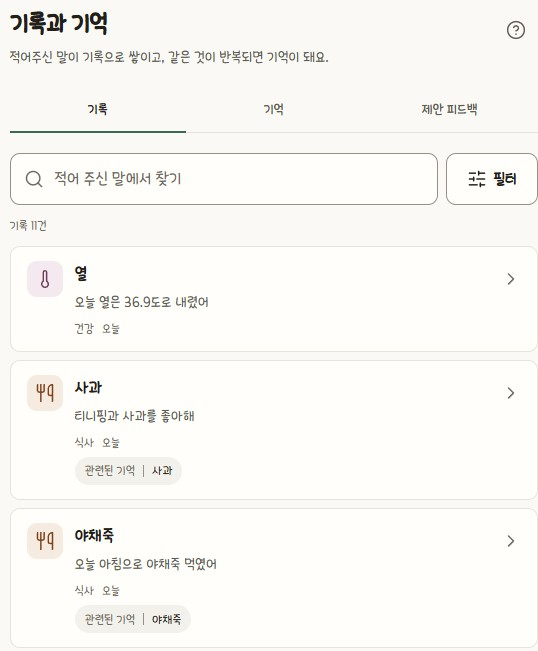
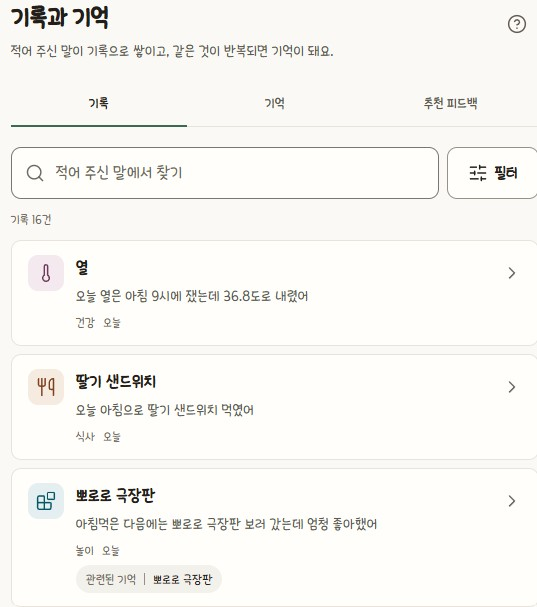
feat: 내용추가

diff --git a/index.html b/index.html
@@ -156,8 +156,7 @@
     <section class="slide" data-section="정리">
       <span class="tag t-red">정리 · 건강</span>
       <h2>병원 가기 전, 증상이 한 번에</h2>
-      <div class="bubble">병원에 가려고 하는데 최근 증상 정리해줘</div>
-      <figure class="shot"><img src="assets/health.jpg" alt="날짜순 증상, 먹인 약, 최근 식사, 알레르기와 만성질환이 정리된 화면" width="544" height="367"><span class="zoom">탭하면 크게 보여요</span></figure>
+      <figure class="shot"><img src="assets/health.jpg" alt="'병원에 가려고 하는데 최근 증상 정리해줘' 요청에 날짜순 구토·체온·해열 시럽·식사 기록과 알레르기(견과류), 만성질환(천식)을 정리한 화면" width="519" height="507"><span class="zoom">탭하면 크게 보여요</span></figure>
       <p class="cap">증상 · 먹인 약 · 식사 · 알레르기를 날짜순으로</p>
     </section>
 
@@ -165,11 +164,23 @@
     <section class="slide" data-section="기억">
       <span class="tag t-indigo">기억</span>
       <h2>한 번 들은 말로 단정하지 않아요</h2>
-      <figure class="shot short"><img src="assets/memory.jpg" alt="기록과 기억 화면. 열, 사과, 야채죽 기록과 '관련된 기억' 표시가 보이는 목록" width="538" height="651"><span class="zoom">탭하면 크게 보여요</span></figure>
+      <figure class="shot short"><img src="assets/memory.jpg" alt="기록과 기억 화면. 열, 딸기 샌드위치, 뽀로로 극장판 기록이 보이고 뽀로로 극장판에 '관련된 기억' 표시가 붙은 목록" width="537" height="607"><span class="zoom">탭하면 크게 보여요</span></figure>
       <ul class="notes">
         <li>기록이 여러 날 쌓이면 ‘기억’이 되고, “블록놀이”와 “쌓기놀이”처럼 같은 것은 하나로 모아요.</li>
         <li>“좋아했어”, “안 먹으려 했어”처럼 아이 반응이 담긴 기록이 쌓여야 기억이 돼요. “먹었어”처럼 있었던 일만 적은 기록은 최근 추천에만 쓰여요.</li>
         <li>한동안 이야기가 없던 기억은 추천에서 빠지고, 기억 탭에서 “지금은 달라요”로 직접 고칠 수도 있어요.</li>
+      </ul>
+    </section>
+
+    <!-- 대화 맥락 -->
+    <section class="slide" data-section="기억">
+      <span class="tag t-indigo">기억 · 대화 맥락</span>
+      <h2>지난 대화는 필요할 때만 꺼내 봐요</h2>
+      <figure class="shot short"><img src="assets/context.jpg" alt="'점심 추천해줘'에 식사 추천 3가지를 보여주고, 이어서 '그거 말고 다른거'라고 하자 앞 대화를 이어받아 다른 추천 3가지를 보여주는 화면" width="541" height="666"><span class="zoom">탭하면 크게 보여요</span></figure>
+      <ul class="notes">
+        <li>“오늘 저녁 뭐 먹일까?”, “열이 38.2도야”처럼 대부분의 요청은 한 번으로 끝나요. 그래서 평소에는 지난 대화를 끌고 오지 않고, 지금 보낸 말만 새로 읽어요.</li>
+        <li>“그거 말고 다른거”처럼 앞 대화를 알아야 이해되는 말일 때만 채팅 기록을 꺼내 봐요.</li>
+        <li>지난 대화가 엉뚱하게 섞여 들지 않아서, 매번 지금 요청에 맞는 답을 드려요.</li>
       </ul>
     </section>
 
